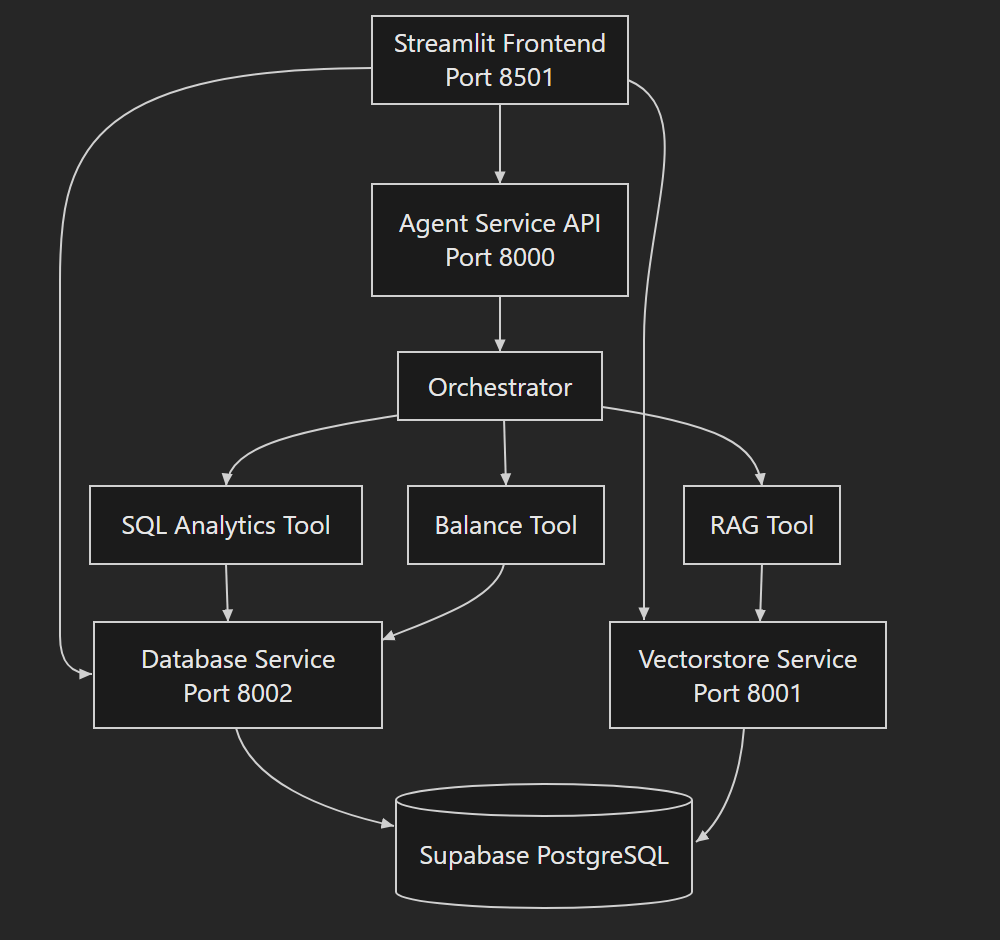
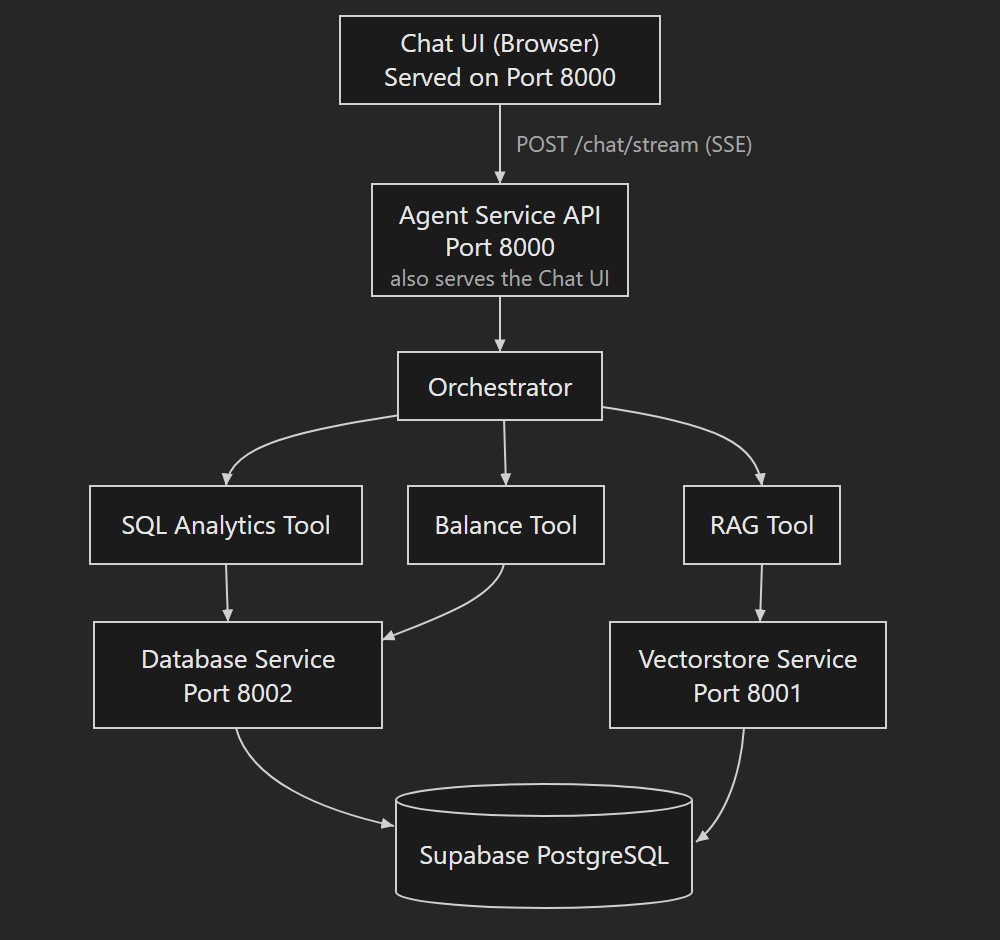
Redraw architecture diagram with the chat UI served on port 8000

diff --git a/docs/ARCHITECTURE.md b/docs/ARCHITECTURE.md
@@ -17,7 +17,7 @@ The system is a browser chat UI plus three independent FastAPI services that tal
 | Supabase PostgreSQL | n/a | `data/sql/schema.sql` | `users`, `accounts`, `transactions`, `policy_document` |
 | Google Gemini API | n/a | external | `gemini-3.5-flash-lite` chooses tools and writes answers |
 
-The diagram shows the target design, in which a Streamlit frontend on port 8501 calls the Agent Service for chat and the Database and Vectorstore services directly for dashboards. Today the chat page is served by the Agent Service itself. `frontend/` holds an older TypeScript API client that the Streamlit app will replace.
+The chat UI is a static page served by the Agent Service on port 8000, so the browser makes one kind of call, `POST /chat/stream`, and never talks to the Database or Vectorstore services directly. A Streamlit dashboard (port 8501) is planned as a separate frontend that would call those services for charts. `frontend/` holds an older TypeScript API client that it will replace.
 
 ## Life of a question
 

diff --git a/readme.md b/readme.md
@@ -36,7 +36,7 @@ Built with FastAPI microservices, a LangGraph agent on Google Gemini 3.5 Flash L
 
 When you ask a question, the agent sends it to Gemini along with today's date and your user ID. Gemini chooses one or more tools: **SQL Analytics** (spending), **Balance**, or **RAG** (policy search). The agent calls the matching service, then has Gemini turn the results into a plain-English answer, which streams back to the page.
 
-The diagram shows the target design, with a Streamlit frontend on port 8501. Today the chat page is served directly by the Agent Service on port 8000.
+The chat page is served by the Agent Service itself, so the browser talks only to port 8000. A Streamlit dashboard is planned as a separate frontend (see Roadmap).
 
 See **[docs/ARCHITECTURE.md](docs/ARCHITECTURE.md)** for the full request flow, API endpoints, stream events, and data model.
 
